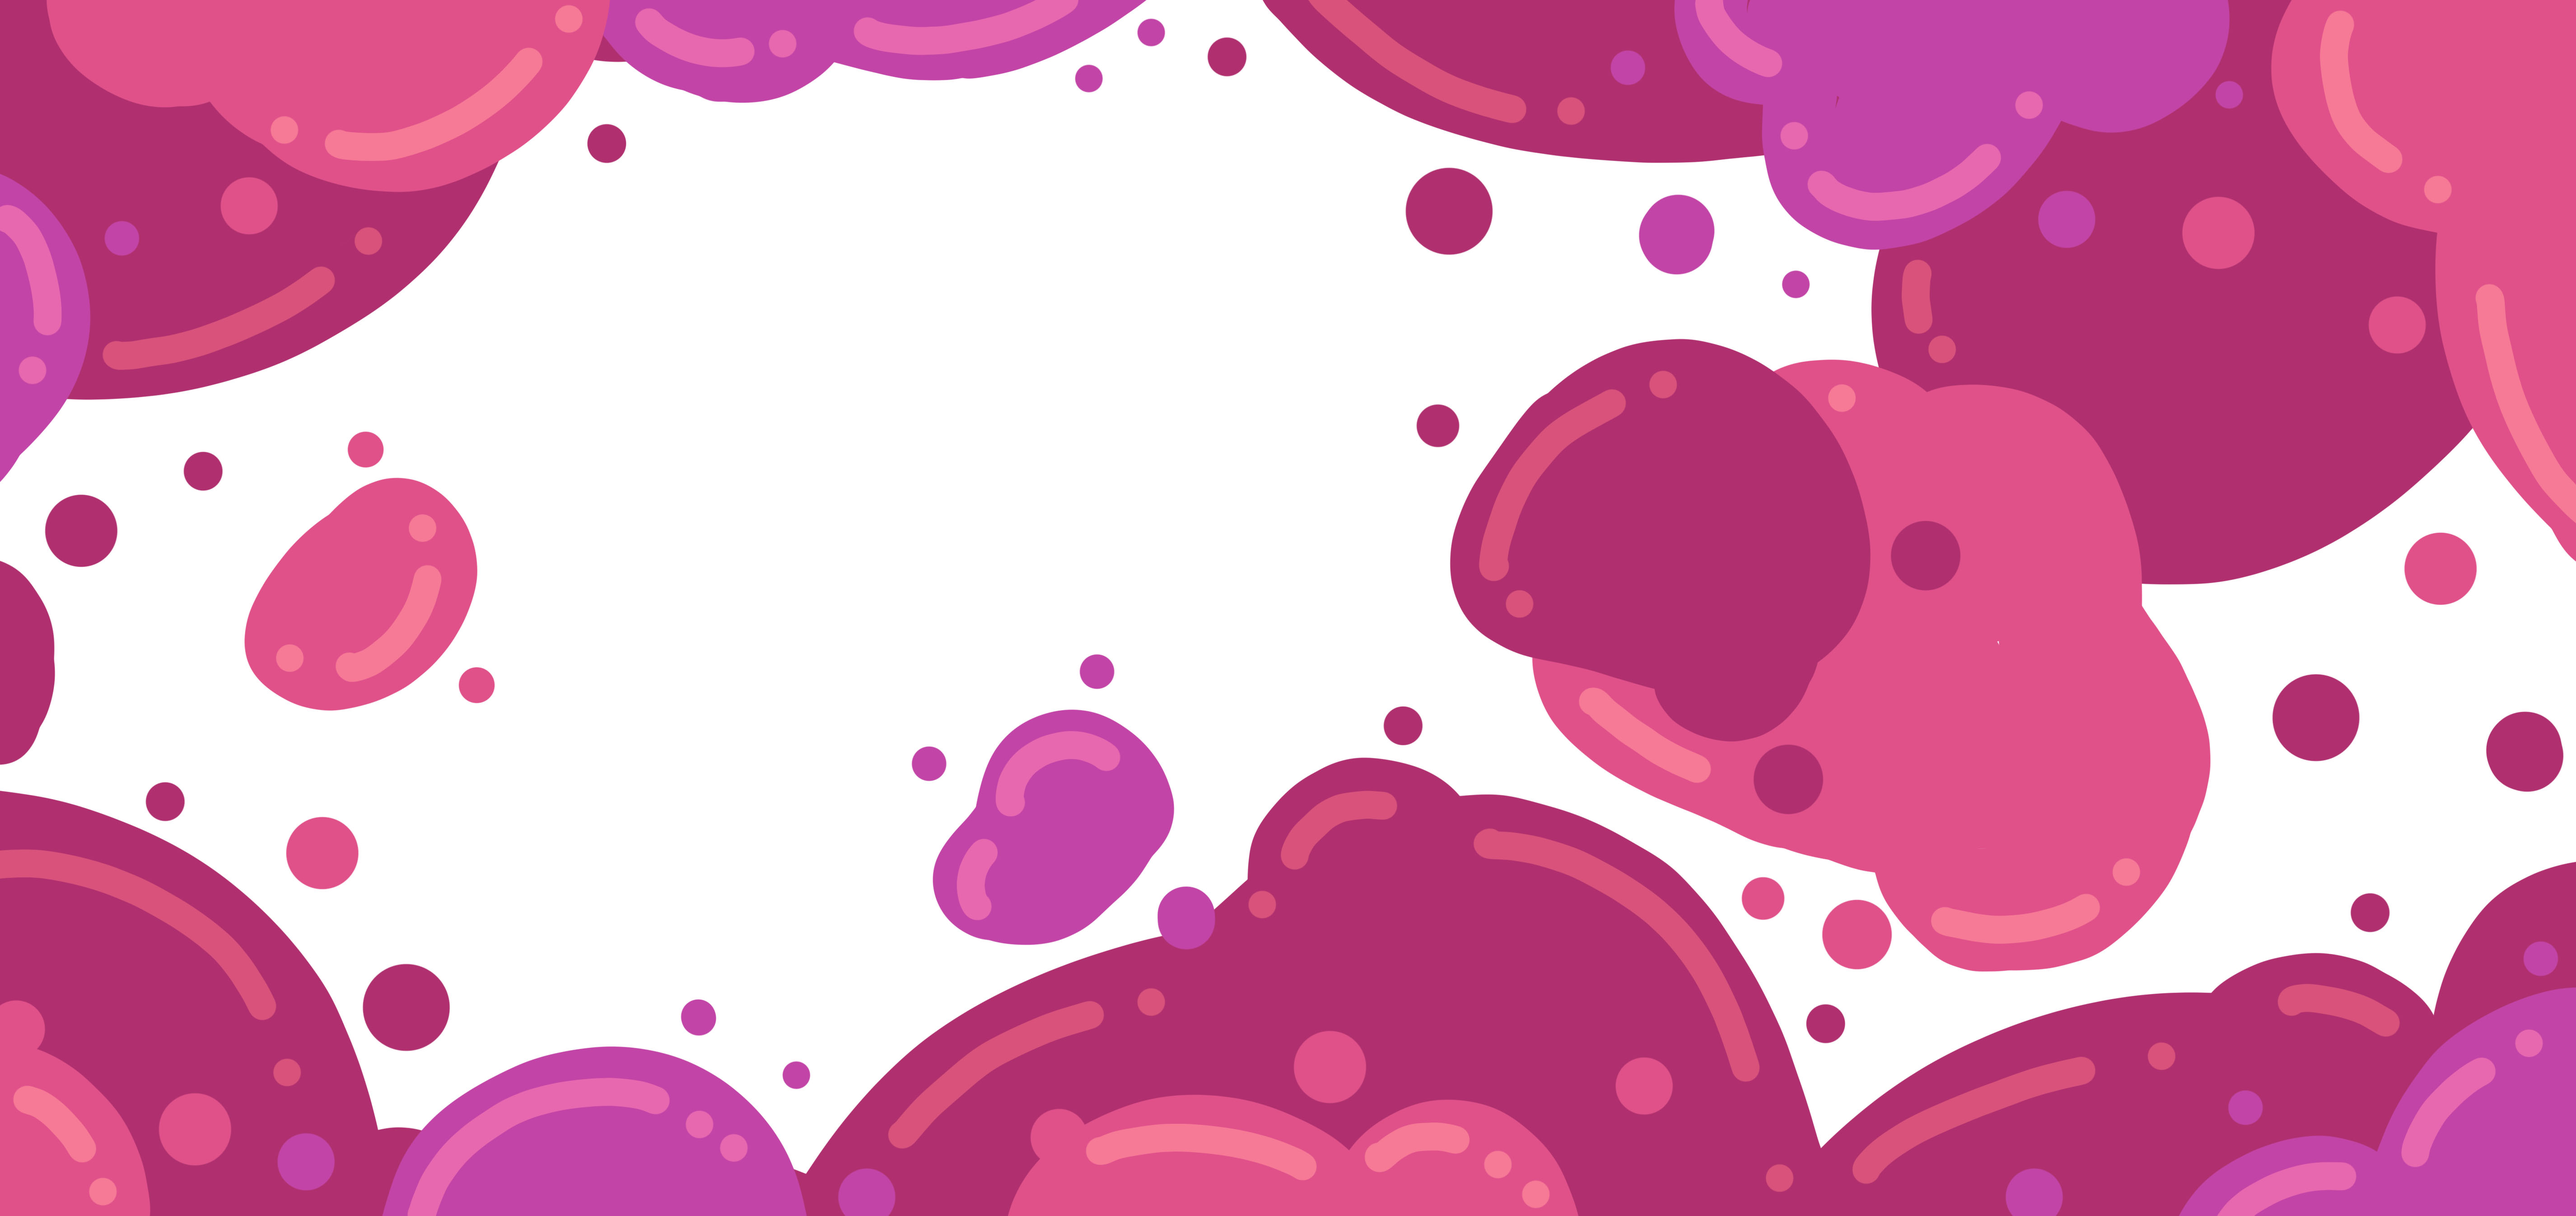
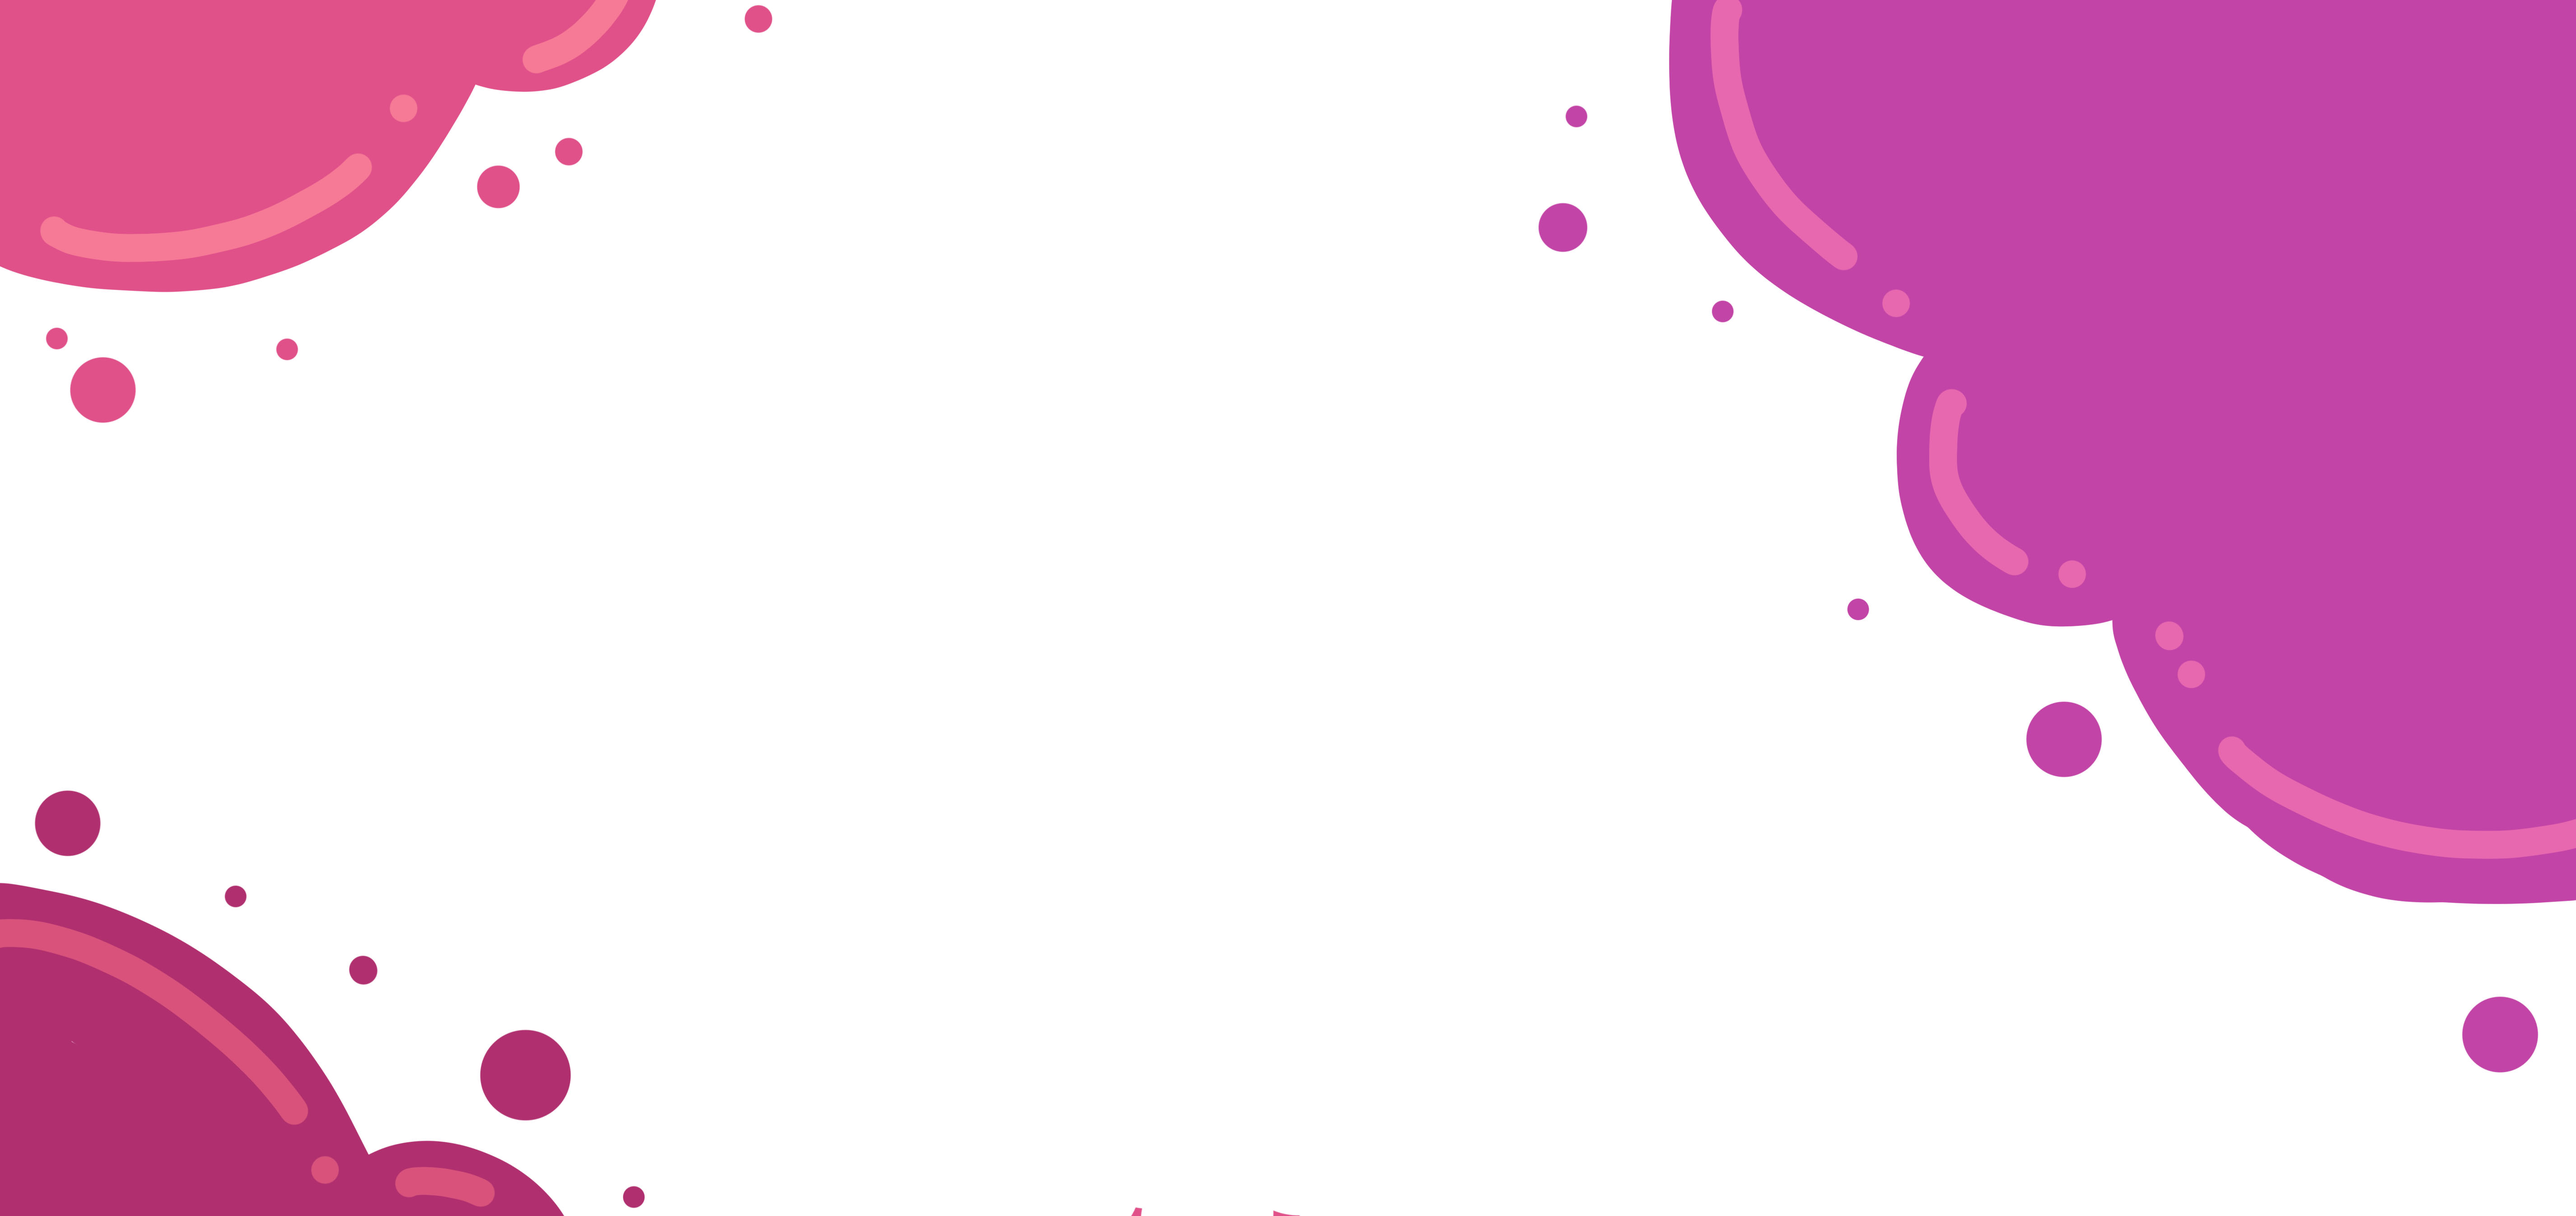
sixth commit

diff --git a/indhold.html b/indhold.html
@@ -34,7 +34,7 @@
             <section id="section_wrapper2">
                 <div id="col1">
                     <h1>Indhold</h1>
-                    <p>I tema 5: Grundlæggende indhold lærte vi om double diamond-modellen, filmteknikker, fotostile, arbejdsmodellen SCRUM og relevante testtyper såsom: 5-sekunders testen, BERT-, lighthouse- og eksperttesten. Desuden fik vi større indsigt i Adobe programmerne Audition og Priemere Pro.<br><br>I dette tema skulle vi udarbejde et redesign af en virksomheds hjemmeside samt redigere og lave egne produktionsvideoer og billeder til det pågældende site.<br><br>Min gruppe og jeg ønskede med vores redesign, at genskabe den hyggelige stemning der befandt sig i Vores Kaffebars fysiske café på Holmbladsgade. Vi sigtede derfor efter at videoer og billeder skulle have et varmt og rart udtryk, og at sitet skulle være nemt at navigere rundt i. Vores overordnede mål var derfor at sitet i sidste ende skulle bære præg af nøgleordene: rolig, unik og overskuelig. <br>Mine primære opgaver i dette projekt var at kode siden "kaffebaren" og redigere produktionsvideoen "kunsten".<br><a class="klik_videre" href="https://serene-poincare-91081b.netlify.app/forside.html">Klik her for at se redesignet</a></p>
+                    <p>I tema 5: Grundlæggende indhold lærte vi om double diamond-modellen, filmteknikker, fotostile, arbejdsmodellen SCRUM og relevante testtyper såsom: 5-sekunders testen, BERT-, lighthouse- og eksperttesten. Desuden fik vi større indsigt i Adobe programmerne Audition og Premiere Pro.<br><br>I dette tema skulle vi udarbejde et redesign af en virksomheds hjemmeside samt producere og redigere egne produktionsvideoer og billeder til det pågældende site.<br><br>Min gruppe og jeg ønskede med vores redesign, at genskabe den hyggelige stemning der befandt sig i Vores Kaffebars fysiske café på Holmbladsgade. Vi sigtede derfor efter at videoer og billeder skulle have et varmt og rart udtryk, og at sitet skulle være nemt at navigere rundt i. Vores overordnede mål var derfor at sitet i sidste ende skulle bære præg af nøgleordene: rolig, unik og overskuelig. <br>Mine primære opgaver i dette projekt var at kode siden "kaffebaren" og redigere produktionsvideoen "kunsten".<br><a class="klik_videre" href="https://serene-poincare-91081b.netlify.app/forside.html">Klik her for at se redesignet</a></p>
                 </div>
                 <div id="col2">
                     <img class="indhold_billede1" src="billeder/indhold1.png" alt="Screenshot af Vores Kaffebars redesign">
@@ -45,7 +45,6 @@
     <footer>
         <a href="indhold.html#til_toppen">Til toppen</a>
     </footer>
-    <script src="javascript.js"></script>
 </body>
 
 </html>

diff --git a/projekter.html b/projekter.html
@@ -31,41 +31,34 @@
             </a>
         </section>
         <section id="first_section_projekter">
-            <section id="section_wrapper1">
+            <section id="section_wrapper2">
                 <h1>Projekter</h1>
             </section>
             <section id="second_section_projekter">
-                <section id="section_wrapper2">
+                <section id="section_wrapper3">
                     <div class="row">
                         <figure class="boks1">
                             <a href="indhold.html"><img src="billeder/indhold_billede.jpg" alt="Billede til indhold"></a>
-                            <!--                            <a href="indhold.html">-->
                             <figcaption class="boks1_beskrivelse">Indhold</figcaption>
-                            <!--                            </a>-->
                         </figure>
                     </div>
                     <div class="row">
                         <figure class="boks2">
                             <a href="animation.html"><img src="billeder/animation_billede.jpg" alt="Billede til animation"></a>
-                            <!--                            <a href="animation.html">-->
                             <figcaption class="boks2_beskrivelse">Animation</figcaption>
-                            <!--                            </a>-->
                         </figure>
                     </div>
                     <div class="row">
                         <figure class="boks3">
                             <a href="ux.html"><img src="billeder/ux_billede.jpg" alt="Billede til UX"></a>
-                            <!--                            <a href="ux.html">-->
                             <figcaption class="boks3_beskrivelse">UX</figcaption>
-                            <!--                            </a>-->
                         </figure>
                     </div>
                     <div class="row">
                         <figure class="boks4">
                             <a href="web.html"><img src="billeder/web_billede.jpg" alt="Billede til web"></a>
-                            <!--                            <a href="web.html">-->
                             <figcaption class="boks4_beskrivelse">Web</figcaption>
-                            <!--                            </a>-->
+
                         </figure>
                     </div>
                 </section>
@@ -75,7 +68,6 @@
     <footer>
         <a href="projekter.html#til_toppen">Til toppen</a>
     </footer>
-    <script src="javascript.js"></script>
 </body>
 
 </html>

diff --git a/style.css b/style.css
@@ -175,7 +175,7 @@ a {
 #first_section_index {
     margin: 0px;
     overflow: hidden;
-    background-image: url(billeder/malerklatter2.jpg);
+    background-image: url(billeder/malerklatter1.jpg);
     background-size: cover;
     background-position: 20%;
     margin-bottom: 0px;
@@ -226,7 +226,7 @@ a {
 #first_section_om_mig {
     margin: 0px;
     overflow: hidden;
-    background-image: url(billeder/malerklatter4.jpg);
+    background-image: url(billeder/malerklatter2.jpg);
     background-size: cover;
     background-position: 20%;
     margin-bottom: 0px;
@@ -242,14 +242,14 @@ a {
 #first_section_projekter {
     margin: 0px;
     overflow: hidden;
-    background-image: url(billeder/malerklatter5.jpg);
+    background-image: url(billeder/malerklatter3.jpg);
     background-size: cover;
     background-position: 74%;
     margin-bottom: 0px;
     margin-top: 0px;
 }
 
-#second_section_projekter #section_wrapper2 {
+#second_section_projekter #section_wrapper3 {
     margin: 0px;
 }
 
@@ -327,7 +327,7 @@ figure img:hover {
 #first_section_indhold {
     margin: 0px;
     overflow: hidden;
-    background-image: url(billeder/baggrund.png);
+    background-image: url(billeder/malerklatter4.png);
     background-size: cover;
     background-position: 30%;
     margin-bottom: 0px;
@@ -342,7 +342,7 @@ figure img:hover {
 #first_section_animation {
     margin: 0px;
     overflow: hidden;
-    background-image: url(billeder/baggrund.png);
+    background-image: url(billeder/malerklatter4.png);
     background-size: cover;
     background-position: 30%;
 }
@@ -359,7 +359,7 @@ figure img:hover {
 #first_section_ux {
     margin: 0px;
     overflow: hidden;
-    background-image: url(billeder/baggrund.png);
+    background-image: url(billeder/malerklatter4.png);
     background-size: cover;
     background-position: 30.9%;
 }
@@ -372,7 +372,7 @@ figure img:hover {
 #first_section_web {
     margin: 0px;
     overflow: hidden;
-    background-image: url(billeder/baggrund.png);
+    background-image: url(billeder/malerklatter4.png);
     background-size: cover;
     background-position: 30%;
 }
@@ -509,7 +509,7 @@ figure img:hover {
             margin-bottom: 0px;
         }
 
-        #second_section_projekter #section_wrapper2 {
+        #second_section_projekter #section_wrapper3 {
             width: 100%;
             height: auto;
             display: flex;

diff --git a/ux.html b/ux.html
@@ -34,7 +34,7 @@
             <section id="section_wrapper2">
                 <div id="col1">
                     <h1>Ux</h1>
-                    <p>I tema 3: Grundlæggende UX lærte vi om konventioner, indholdskompenter, copying, microcopying, prototyper og researchmetoder. Desuden lærte vi at bruge Adobe XD's prototype funktion.<br><br>I dette tema skulle vi udarbejde en prototype af en t-shirt hjemmeside på baggrund af observationer, interviews og tests.<br><br>På The Shirtless Pigeon sælges der t-shirts med geeky og nuttede dyreprint. Sitet er primært kendetegnet ved en duemaskot, der viser vej og integrerer med brugeren. Den fiktive karakter skal nemlig være med til at gøre det sjovt og interessant at shoppe online. I den forbindelse har jeg derfor også valgt, at holde prototypen i stærke og tydelige farver - nemlig udelukkende blå og orange, som står i stor kontrast til hinanden og derfor skaber en god balance.<br><a class="klik_videre" href="https://xd.adobe.com/view/91d1e68a-d2f8-4199-ab6a-c5a9ccb0df5b-c482/">Klik her for at se prototypen</a></p>
+                    <p>I tema 3: Grundlæggende UX lærte vi om konventioner, indholdskompenter, copying, microcopying, prototyper og researchmetoder. Desuden lærte vi at bruge Adobe XD's prototype funktion.<br><br>I dette tema skulle vi udarbejde en prototype af en t-shirt hjemmeside på baggrund af observationer, interviews og tests.<br><br>På The Shirtless Pigeon sælges der t-shirts med geeky og nuttede dyreprint. Sitet er primært kendetegnet ved en duemaskot, der viser vej og integrerer med brugeren. Den fiktive karakter skal som udgangspunkt være med til at gøre det sjovt og interessant at shoppe online. I den forbindelse har jeg derfor også valgt at holde prototypen i stærke og tydelige farver - nemlig udelukkende blå og orange, som er med til at skabe blikfang og købelyst.<br><a class="klik_videre" href="https://xd.adobe.com/view/91d1e68a-d2f8-4199-ab6a-c5a9ccb0df5b-c482/">Klik her for at se prototypen</a></p>
                 </div>
                 <div id="col2">
                     <img class="ux_billede1" src="billeder/ux1.jpg" alt="Screenshot af The Shirtless Pigeon">
@@ -45,7 +45,6 @@
     <footer>
         <a href="ux.html#til_toppen">Til toppen</a>
     </footer>
-    <script src="javascript.js"></script>
 </body>
 
 </html>

diff --git a/animation.html b/animation.html
@@ -45,7 +45,6 @@
     <footer>
         <a href="animation.html#til_toppen">Til toppen</a>
     </footer>
-    <script src="javascript.js"></script>
 </body>
 
 </html>

diff --git a/om_mig.html b/om_mig.html
@@ -47,7 +47,6 @@
     <footer>
         <a href="om_mig.html#til_toppen">Til toppen</a>
     </footer>
-    <script src="javascript.js"></script>
 </body>
 
 </html>

diff --git a/index.html b/index.html
@@ -35,7 +35,6 @@
     <footer>
         <a href="index.html#til_toppen">Til toppen</a>
     </footer>
-    <script src="javascript.js"></script>
 </body>
 
 </html>

diff --git a/web.html b/web.html
@@ -46,7 +46,6 @@
     <footer>
         <a href="web.html#til_toppen">Til toppen</a>
     </footer>
-    <script src="javascript.js"></script>
 </body>
 
 </html>
